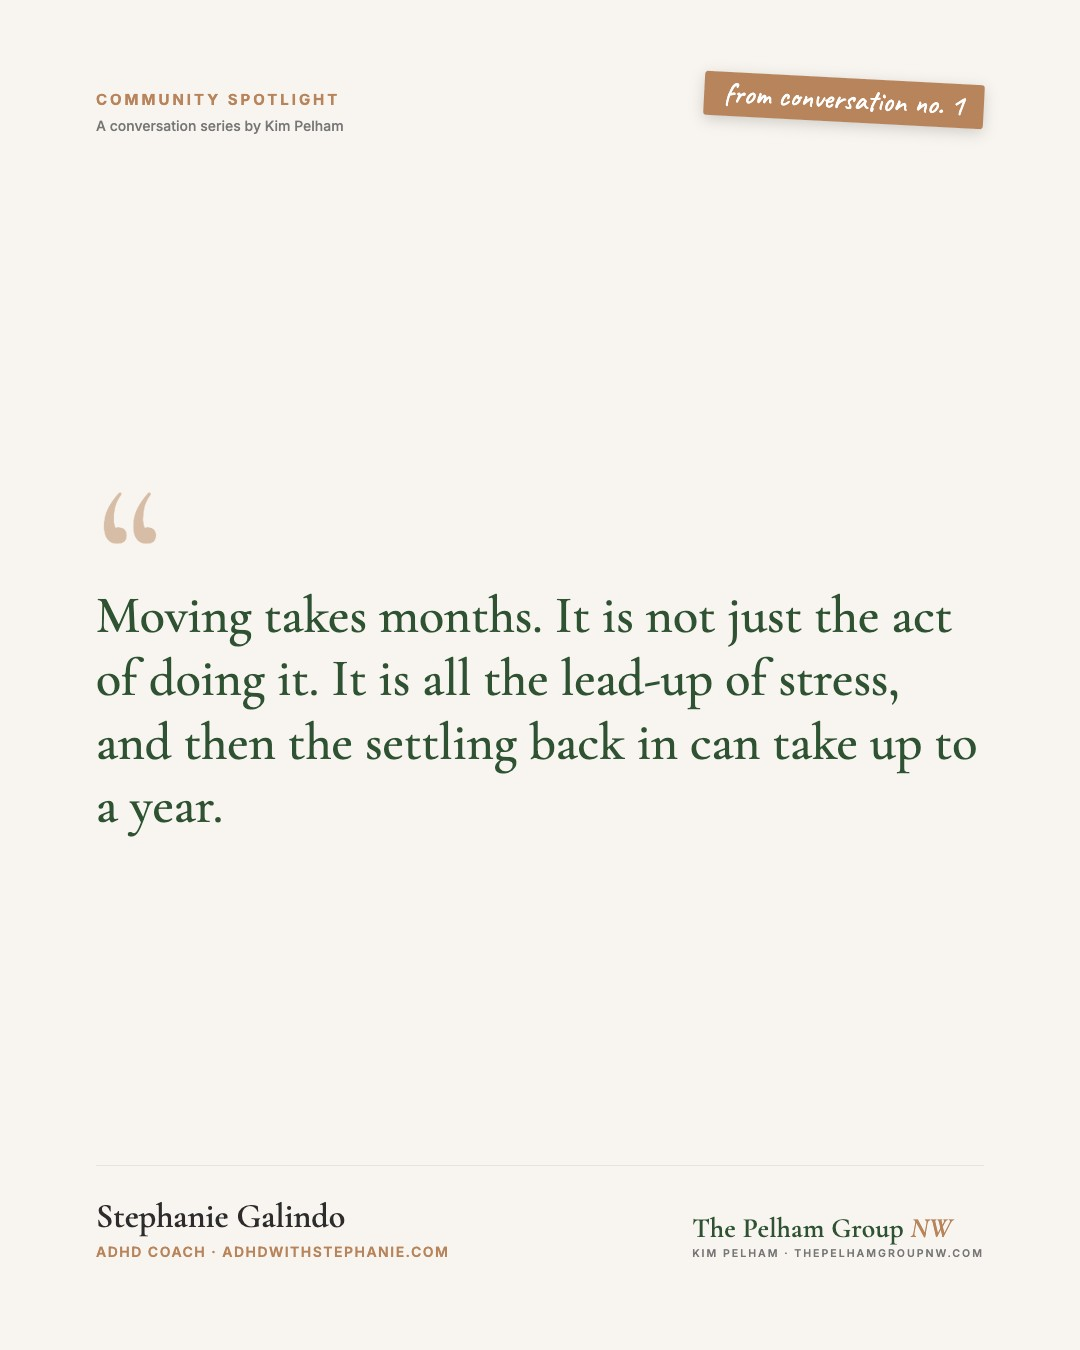
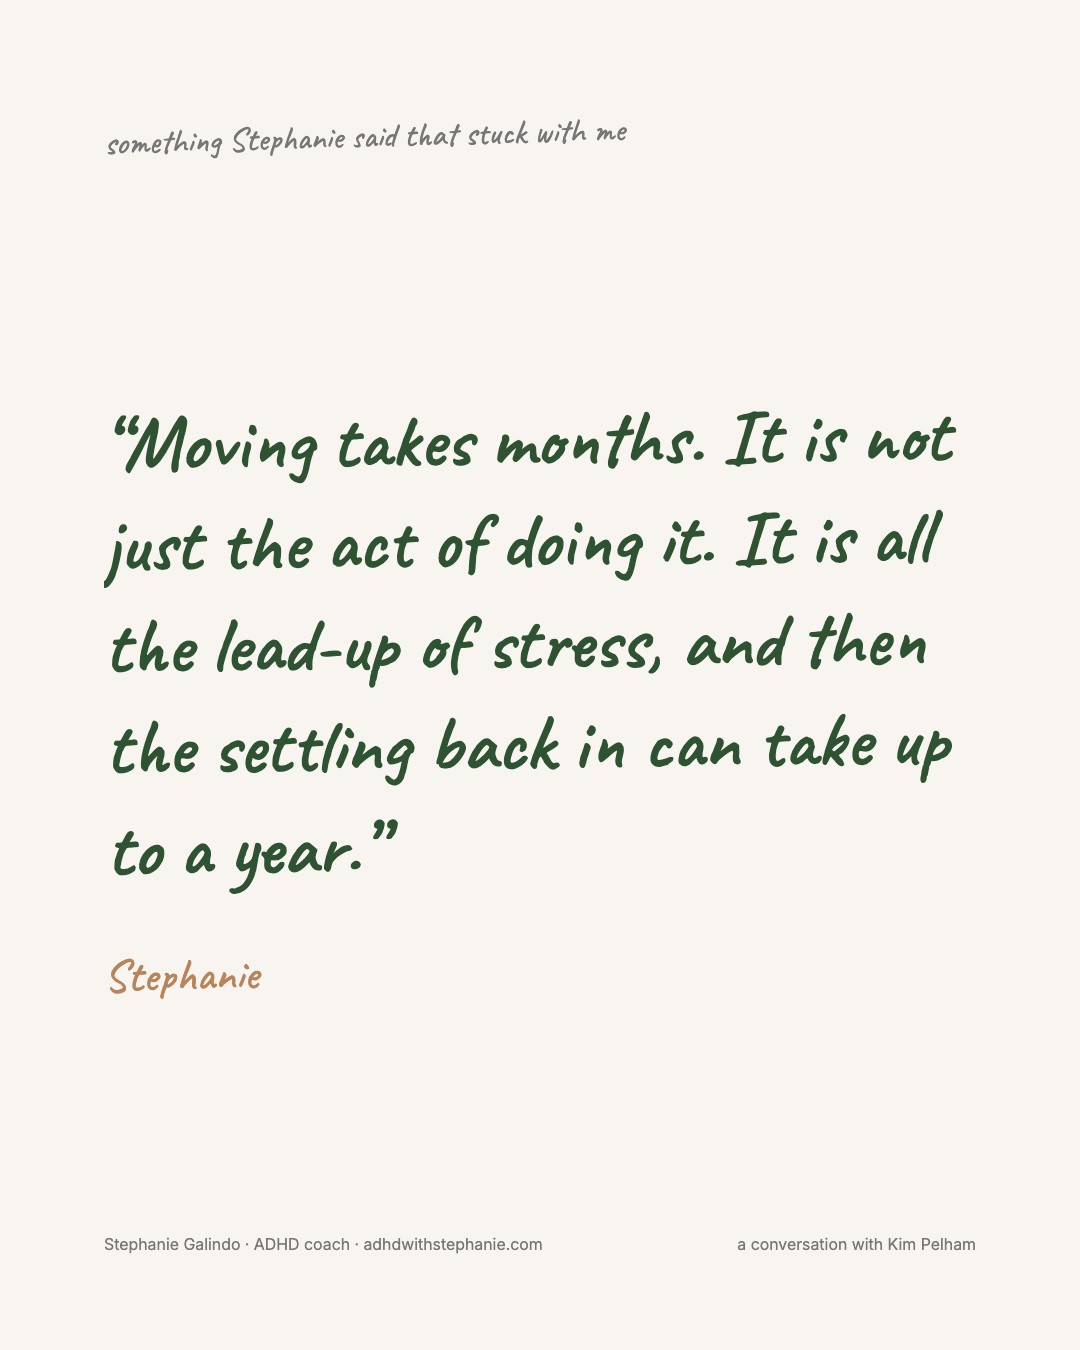
Studio: Kim's feedback pass, first-person voice + unpolished graphics
Two changes from Kim via Rachael:
1. All post assets read as Kim wrote them. Both GBP captions rewritten
   from third person ('New from Kim... Kim answers her own phone') to
   first person ('I just recorded... I answer my own phone').
2. Quote tiles redesigned from the branded template (eyebrow system,
   badge, wordmark block) to a handwritten note: Caveat quote on paper,
   'something Stephanie said that stuck with me' header, name-only
   attribution per the no-dash-attribution rule, one quiet credit line.

diff --git a/src/app/studio/stephanie-and-kim/page.tsx b/src/app/studio/stephanie-and-kim/page.tsx
@@ -73,7 +73,7 @@ Full conversation coming soon. Find Stephanie at adhdwithstephanie.com.`,
           {
             platform: 'Google Business Profile',
             note: 'Short and plain. No hashtags needed.',
-            text: `New from Kim: the first conversation in her Community Spotlight series, featuring Stephanie Galindo of ADHD with Stephanie, a local ADHD coach. They talk about the human side of a big move, including stress, anxiety, and why there is no one right way for a brain to work. The full conversation is coming soon. Have a question about buying or selling in Snohomish County? Kim answers her own phone.`,
+            text: `I just recorded the first conversation in my Community Spotlight series with Stephanie Galindo of ADHD with Stephanie, a local ADHD coach. We talked about the human side of a big move: the stress, the anxiety, and why there is no one right way for a brain to work. The full conversation is coming soon. And if you have a question about buying or selling in Snohomish County, call me. I answer my own phone.`,
           },
         ],
       },
@@ -155,7 +155,7 @@ Always, Kim`,
           {
             platform: 'Google Business Profile',
             note: 'Short and plain, referral angle.',
-            text: `Kim's famous Double D commercial made it onto the record during her Community Spotlight conversation. The short version: the people selling homes are divorcing, downsizing, departing the area, dealing with debt, celebrating diamonds, or buying diapers. If someone you know has a D, Kim can help with all of them. She answers her own phone: 425-250-9422.`,
+            text: `My friends have heard my Double D commercial for years, and it finally made it onto the record. The short version: the people selling homes are divorcing, downsizing, departing the area, dealing with debt, celebrating diamonds, or buying diapers. If someone you know has a D right now, I can help with all of them. Call or text me: 425-250-9422.`,
           },
         ],
       },
